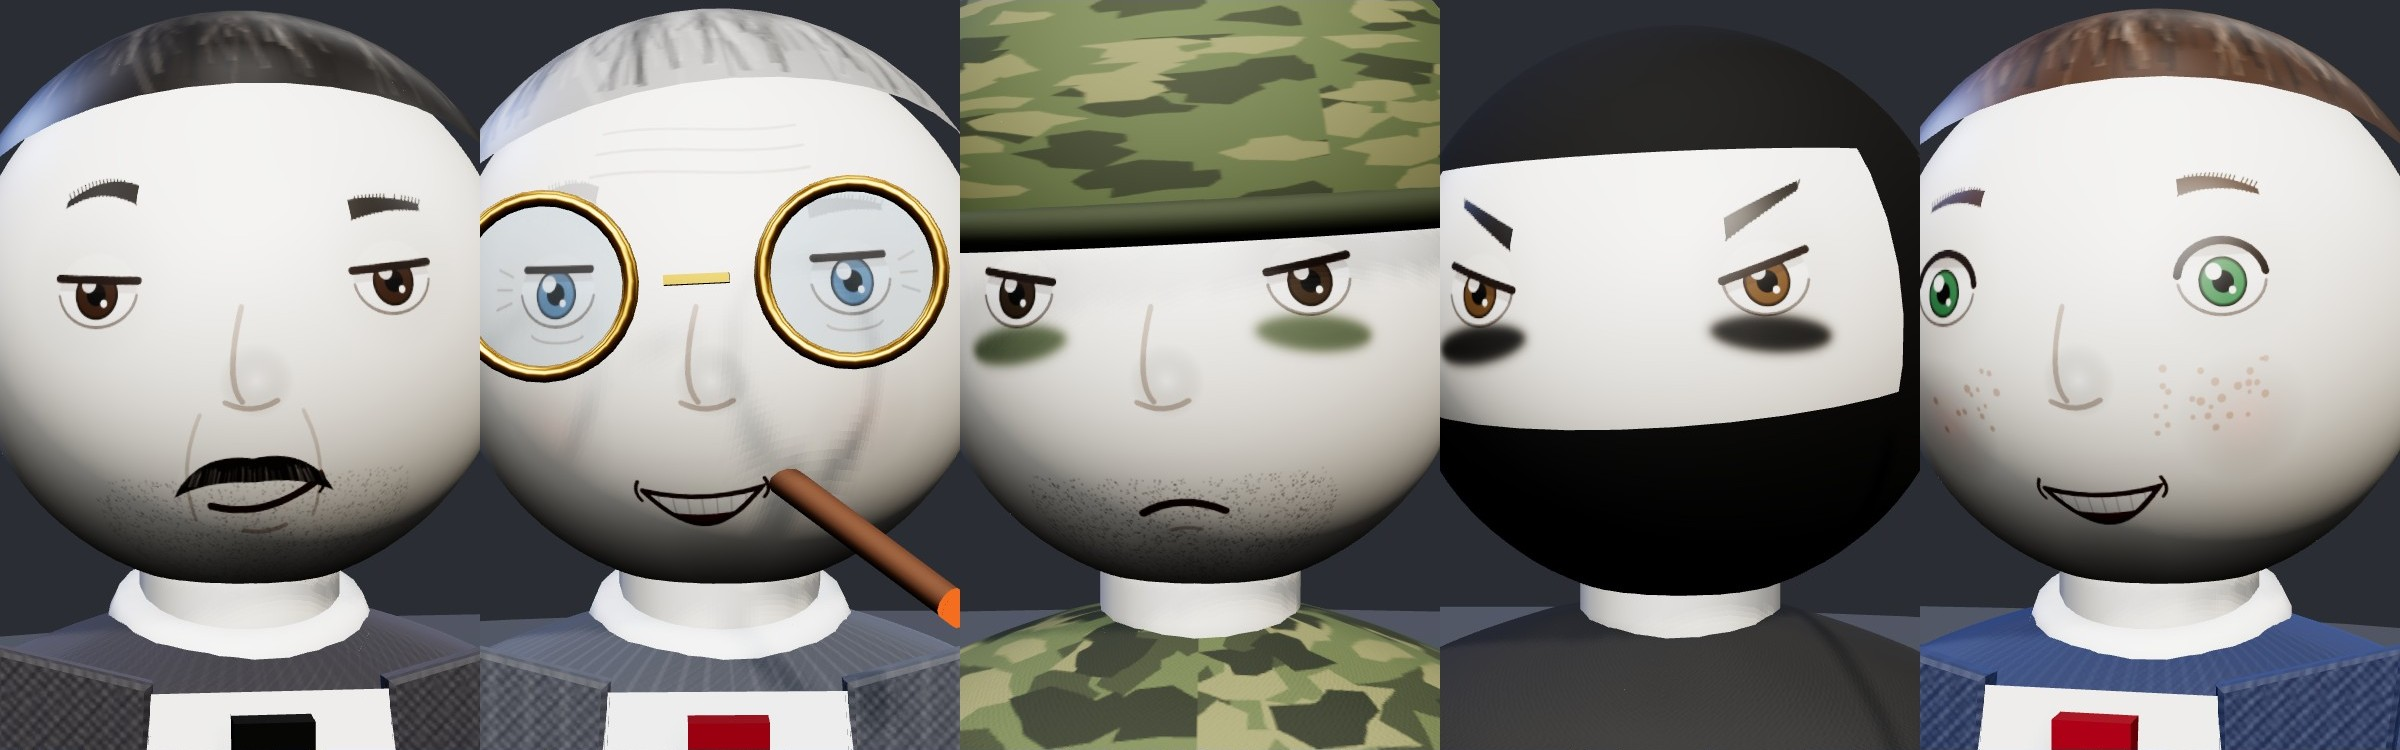
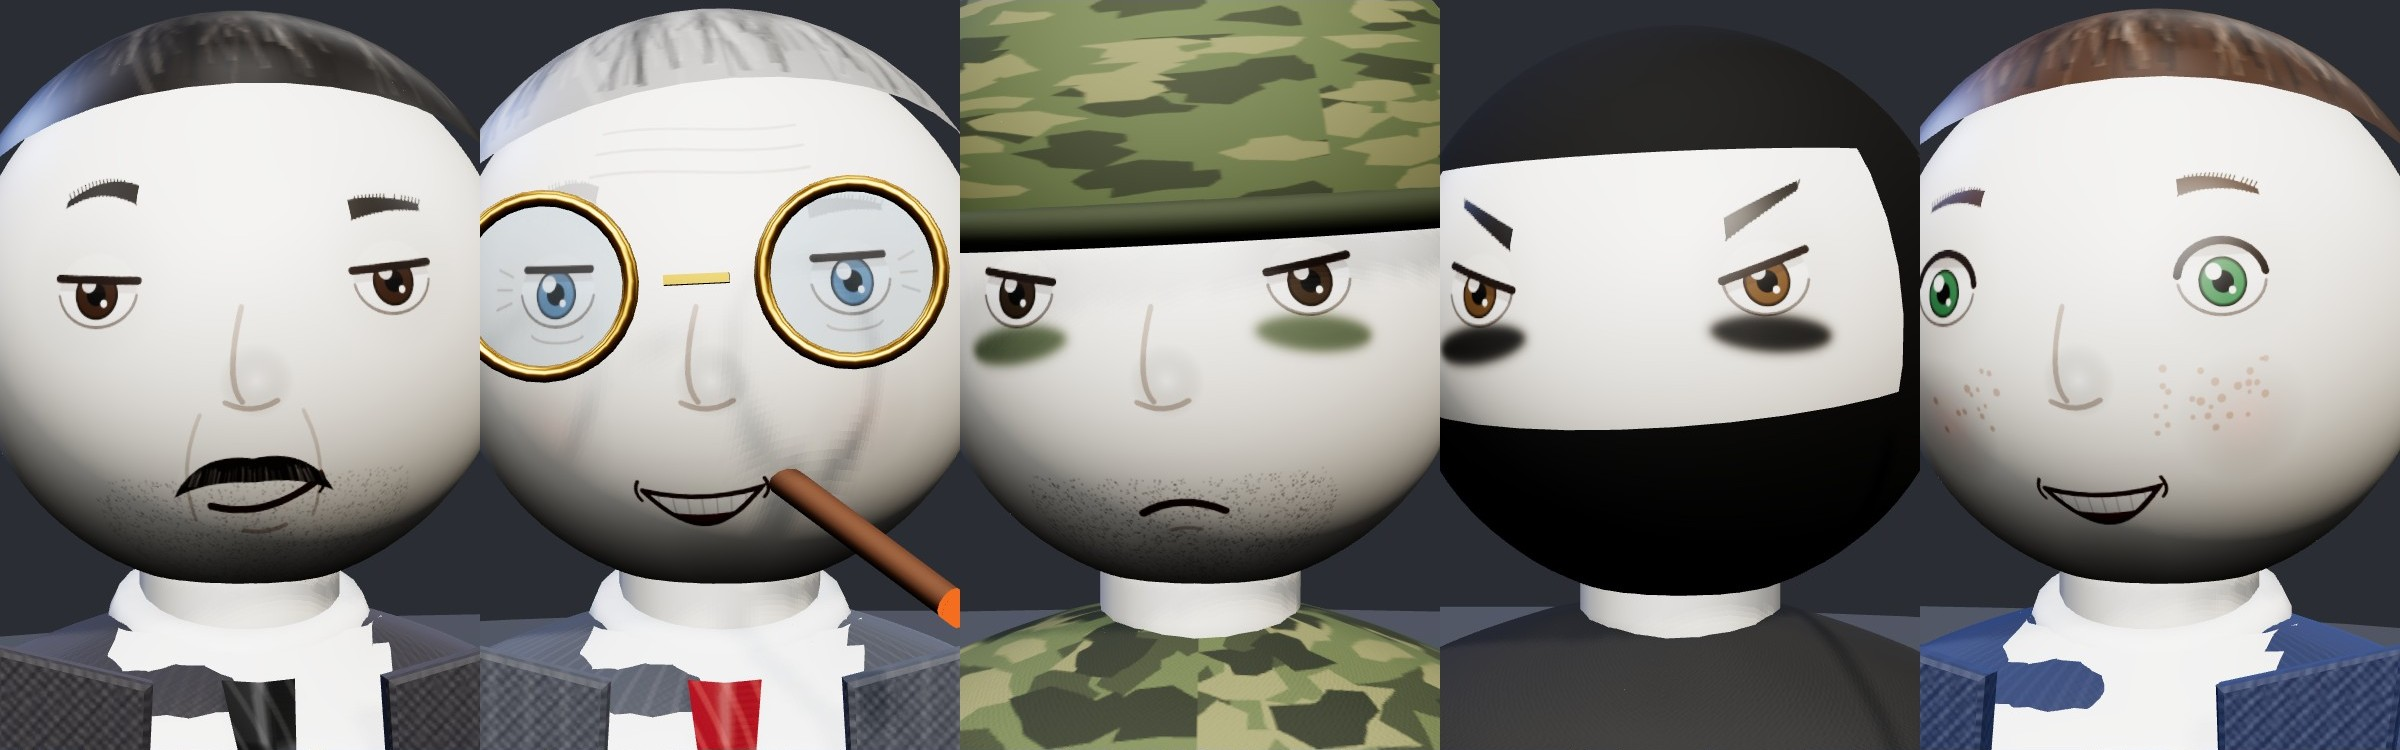
Characters: real tie shape and shirt front that follow the chest
Claude-Session: https://claude.ai/code/session_01WDrQiuAKGjVZNTyo2ws8iR

Changed region(s): [[0.8125, 0.828, 0.9688, 1.0], [0.2188, 0.828, 0.375, 1.0], [0.0312, 0.828, 0.1875, 1.0]]

diff --git a/youtube-shorts/narco-estado/build/chars.js b/youtube-shorts/narco-estado/build/chars.js
@@ -39,6 +39,7 @@ function fabricNormal(kind = 'wool') {
 const cloth = (o, kind = 'wool') => new THREE.MeshPhysicalMaterial({ roughness: .78, sheen: .5, sheenRoughness: .7, sheenColor: new THREE.Color(0x777777),
   normalMap: fabricNormal(kind), normalScale: new THREE.Vector2(.55, .55), ...o });
 
+const lerpN = (a, b, k) => a + (b - a) * k;
 const clamp01 = x => Math.min(1, Math.max(0, x));
 // tapered garment tube from a [radius, y] profile, with fabric folds pushed into the surface
 function garment(profile, folds = [], seed = 1, segs = 40) {
@@ -211,6 +212,9 @@ export function stickman(kind) {
   // sculpted torso (lathe profile: hips → waist → chest → shoulders), jacket hem flares below the belt
   const prof = (L.suit ? [[.001, .76], [.168, .762], [.165, .8], [.155, .9], [.145, 1.0]] : [[.001, .8], [.15, .82], [.155, .9], [.143, 1.0]])
     .concat([[.16, 1.1], [.182, 1.22], [.192, 1.32], [.188, 1.38], [.155, 1.44], [.07, 1.48], [.001, 1.49]]).map(([r, y]) => [r, y]);
+  const rAt = y => { for (let i = 1; i < prof.length; i++) { const [r0, y0] = prof[i - 1], [r1, y1] = prof[i]; if (y <= y1 && y >= y0) return r0 + (r1 - r0) * (y - y0) / (y1 - y0); } return .15; };
+  const surfZ = (x, y) => Math.sqrt(Math.max(0, rAt(y) ** 2 - x * x)) * .66;   // front of the torso at (x, y)
+  const conform = (geo, off) => { const p = geo.attributes.position; for (let i = 0; i < p.count; i++) p.setZ(i, surfZ(p.getX(i), p.getY(i)) + off + p.getZ(i)); geo.computeVertexNormals(); return geo; };
   const torso = add(root, garment(prof, [[1.0, .05, .004, 7], [1.36, .05, .003, 4]], 3, 48), top); torso.scale.z = .66;
   if (L.suit) for (const sx of [-1, 1]) { const vent = add(root, new THREE.BoxGeometry(.004, .14, .004), std(0x000000), sx * .02, .83, .113); }
   // shoulders: a continuous yoke so arms grow out of the body
@@ -222,10 +226,18 @@ export function stickman(kind) {
     const shirt = std(L.shirt, { roughness: .5 });
     const collar = add(root, new THREE.TorusGeometry(.05, .016, 8, 24), shirt, 0, 1.48, 0); collar.rotation.x = Math.PI / 2 + .25;
     // open-front V: shirt + tie with knot
-    const vee = new THREE.Shape([new THREE.Vector2(-.065, 0), new THREE.Vector2(.065, 0), new THREE.Vector2(0, -.26)]);
-    add(root, new THREE.ShapeGeometry(vee), shirt, 0, 1.47, .124).rotation.x = -.12;
-    add(root, new THREE.BoxGeometry(.035, .03, .02), std(L.tie, { roughness: .35 }), 0, 1.445, .13);
-    const tie = add(root, new THREE.CylinderGeometry(.02, .006, .3, 4), std(L.tie, { roughness: .35 }), 0, L.loose ? 1.29 : 1.28, .128); tie.scale.z = .25; if (L.loose) tie.rotation.z = .06;
+    const vee = new THREE.PlaneGeometry(1, 1, 12, 30), vp = vee.attributes.position;
+    for (let i = 0; i < vp.count; i++) { const t = .5 - vp.getY(i), y = 1.48 - t * .27; vp.setXYZ(i, vp.getX(i) * .14 * (1 - t), y, 0); }
+    add(root, conform(vee, .007), shirt);
+    // tie: knot + blade that widens and ends in a point, with a woven diagonal stripe
+    const tieTex = tex(64, 256, (g, w, h) => { g.fillStyle = '#' + new THREE.Color(L.tie).getHexString(); g.fillRect(0, 0, w, h);
+      g.strokeStyle = 'rgba(255,255,255,.10)'; g.lineWidth = 4; for (let i = -h; i < h; i += 18) { g.beginPath(); g.moveTo(0, i); g.lineTo(w, i + w * .7); g.stroke(); } });
+    tieTex.repeat.set(1, 1);
+    const tg = new THREE.PlaneGeometry(1, 1, 6, 60), tp = tg.attributes.position, drop = L.loose ? .035 : 0;
+    const tw = t => t < .1 ? lerpN(.034, .024, t / .1) : t < .92 ? lerpN(.02, .05, (t - .1) / .82) : .05 * (1 - (t - .92) / .08);
+    for (let i = 0; i < tp.count; i++) { const u = tp.getX(i), t = .5 - tp.getY(i), w = tw(t), x = u * w + (L.loose ? t * .012 : 0);
+      tp.setXYZ(i, x, 1.465 - drop - t * .3, (t < .1 ? .007 : .0025) * (1 - Math.abs(u) * 1.6)); }
+    add(root, conform(tg, .01), std(0xffffff, { map: tieTex, roughness: .35, side: THREE.DoubleSide }));
     // lapels (peaked), buttons, breast pocket
     for (const s of [-1, 1]) { const lap = new THREE.Shape([new THREE.Vector2(0, 0), new THREE.Vector2(s * .075, .02), new THREE.Vector2(s * .06, -.09), new THREE.Vector2(s * .01, -.24)]);
       const lm = add(root, new THREE.ExtrudeGeometry(lap, { depth: .012, bevelEnabled: true, bevelSize: .004, bevelThickness: .003, bevelSegments: 2 }), top, s * .055, 1.47, .11); lm.rotation.x = -.1; }
@@ -250,7 +262,6 @@ export function stickman(kind) {
     const st = tex(16, 120, (g, w, h) => { [['#c9a040', 0, 4], ['#0b6b3a', 4, 38], ['#f2f2f2', 42, 36], ['#b3121b', 78, 38], ['#c9a040', 116, 4]].forEach(([c, y, hh]) => { g.fillStyle = c; g.fillRect(0, y, w, hh); }); });
     st.repeat.set(1, 1);
     const geo = new THREE.CylinderGeometry(.2, .2, .1, 96, 1, true).rotateZ(-.95).translate(0, 1.17, 0), pp = geo.attributes.position;
-    const rAt = y => { for (let i = 1; i < prof.length; i++) { const [r0, y0] = prof[i - 1], [r1, y1] = prof[i]; if (y <= y1 && y >= y0) return r0 + (r1 - r0) * (y - y0) / (y1 - y0); } return .15; };
     for (let i = 0; i < pp.count; i++) { const x = pp.getX(i), y = pp.getY(i), z = pp.getZ(i), a = Math.atan2(z, x), r = rAt(y) + .016; pp.setX(i, Math.cos(a) * r); pp.setZ(i, Math.sin(a) * r); }
     geo.computeVertexNormals();
     const band = new THREE.Mesh(geo, std(0xffffff, { map: st, roughness: .5, side: THREE.DoubleSide })); band.castShadow = true; torso.add(band);
